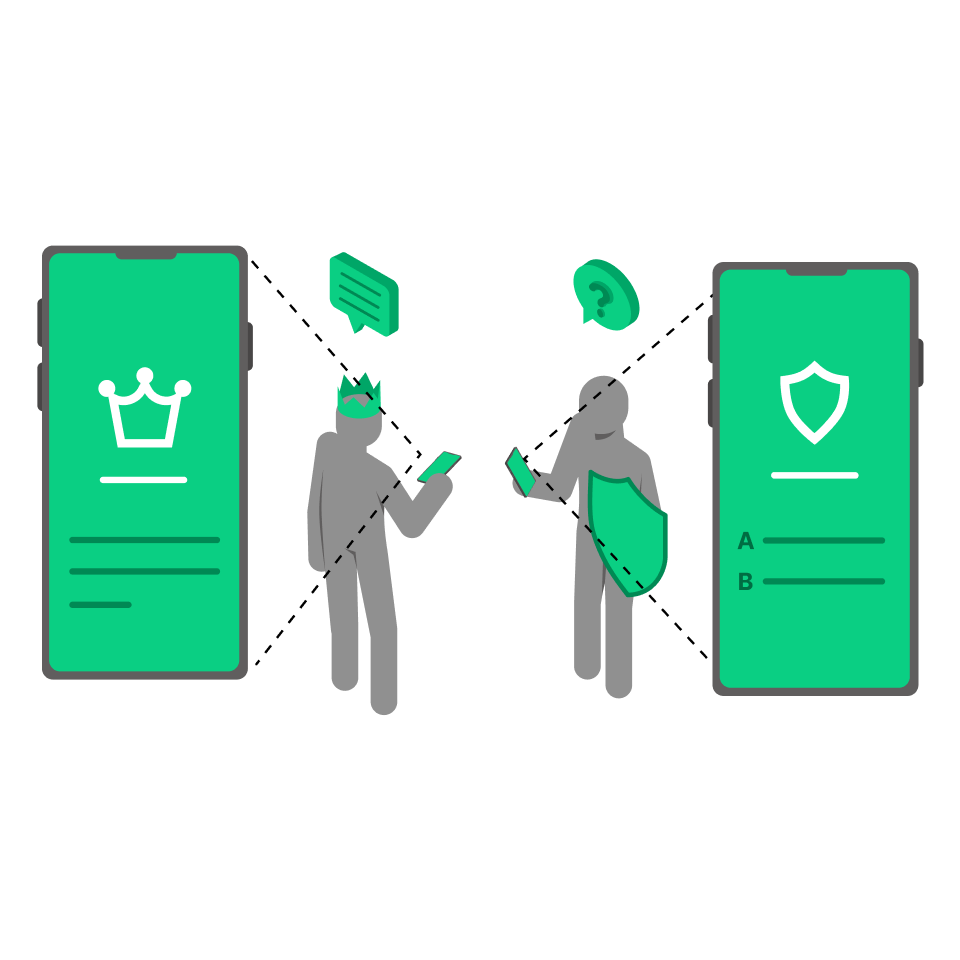
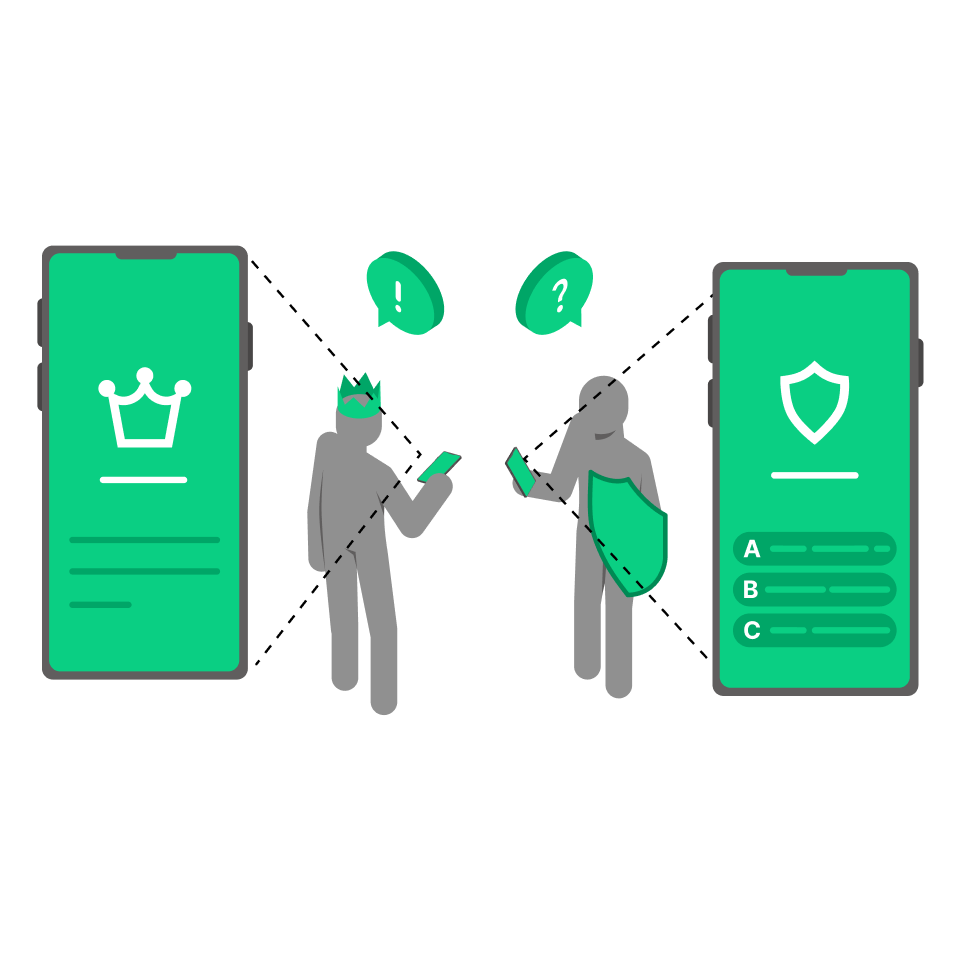
general updates

diff --git a/CLAUDE.md b/CLAUDE.md
@@ -65,7 +65,7 @@ template and a request conflict, surface the conflict before proceeding.
 - **Free highlights (up to 5).** For each filled slot, add it first (before the four standard ones),
   default `image: "icon-check_circle.svg"` (never leave `image` empty — empty renders a plain number,
   which we don't want for free highlights). Slot → fields:
-  - Slot 1: `Free Highlight1 Title` + `Free Highlight Description`
+  - Slot 1: `Free Highlight1 Title` + `Free Highlight1 Description`
   - Slot 2: `Free Highlight2 Title` + `Free Highlight2 Description`
   - Slot 3: `Free Highlight3 Title` + `Free Highlight3 Description`
   - Slot 4: `Free Highlight4 Title` + `Free Highlight4 Description`
@@ -131,6 +131,11 @@ reversing the field mapping above:
   in older modules).
 
 ## Rules
+- **No em dashes in module copy.** When writing or editing any module copy (tagline, descriptions,
+  highlight titles/descriptions), do not use em dashes (—). Use commas, parentheses, or separate
+  sentences instead. This applies whether drafting fresh copy or editing existing copy, across the
+  whole catalogue. (This rule is about the copy you generate, not about reformatting text I typed
+  into Notion — copy from a Notion row verbatim.)
 - **Tags and categories must be EXACT matches** to the approved lists — spelling, casing, spacing
   (e.g. `"AR / XR"`, `"NFC / RFID / QR Code"`, `"High Energy"`). If a value isn't on the list,
   stop and flag it. Never invent, merge, or re-case.
